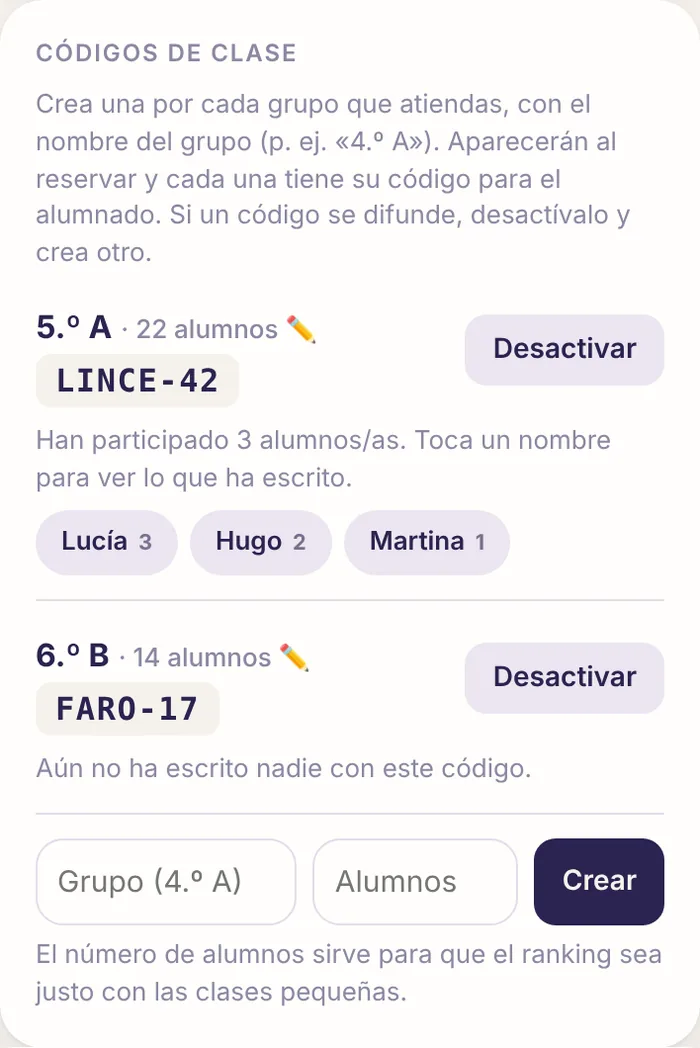
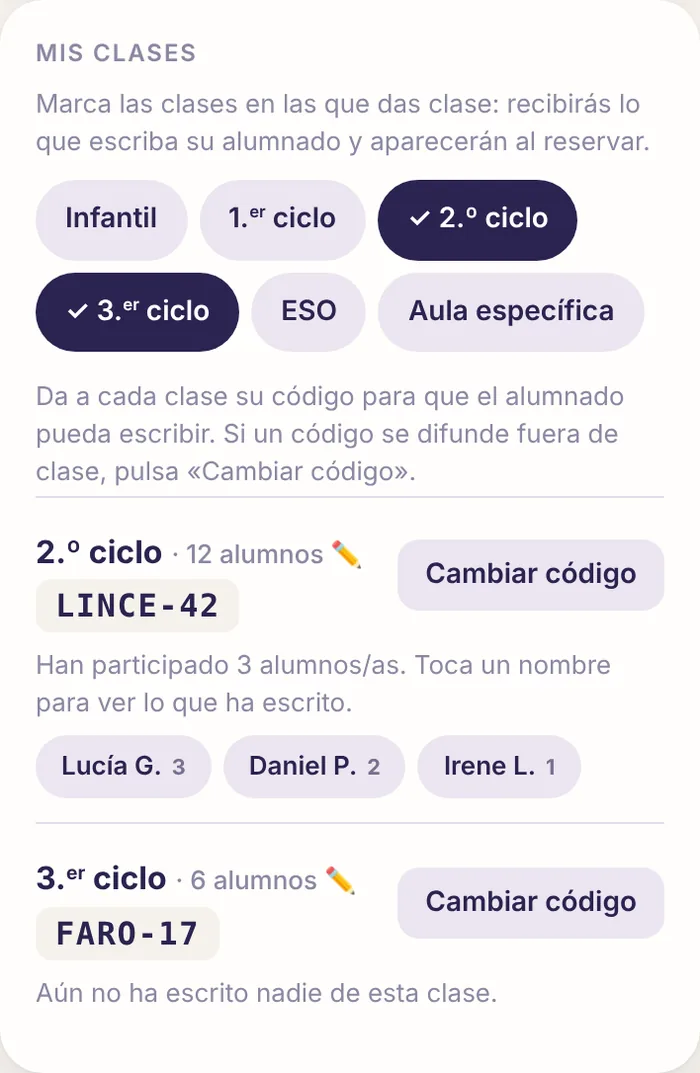
Clases fijas del centro a elegir por cada maestro, ordinales con superíndice y datos de ejemplo para presentaciones
Claude-Session: https://claude.ai/code/session_01LUWp7JZmstWodScyruJUGT

diff --git a/index.html b/index.html
@@ -141,6 +141,7 @@ textarea{min-height:120px;resize:vertical}
 .clase-off b,.clase-off .codigo,.clase-off .part,.clase-off .num-al{opacity:.45}
 .clase-off .codigo{text-decoration:line-through}
 .num-al{font-size:13px;font-weight:500}
+.selector .chip{padding:9px 14px;font-size:14px}
 .chips{display:flex;flex-wrap:wrap;gap:6px;margin-top:10px}
 .chip{padding:6px 12px;border-radius:999px;background:var(--papel2);color:var(--tinta);font-size:13px;font-weight:600;border:1.5px solid transparent}
 .chip.on{background:var(--tinta);color:#fff}
@@ -224,6 +225,8 @@ textarea{min-height:120px;resize:vertical}
 .franja-demo button{background:var(--tinta);color:#fff;font-weight:700;font-size:13px;padding:7px 14px;border-radius:10px}
 .tag-demo{background:var(--oro);color:var(--tinta);font-weight:700;padding:1px 7px;border-radius:6px}
 .demo-card{border:1.5px dashed var(--oro)}
+.ejemplo-card{border:1.5px dashed var(--cielo)}
+sup{font-size:.6em;line-height:0;vertical-align:.6em;margin-left:.02em}
 .cargando{text-align:center;color:var(--suave);padding:60px 0}
 </style>
 </head>
@@ -245,7 +248,7 @@ textarea{min-height:120px;resize:vertical}
 /* ============ CONFIGURACIÓN ============ */
 const API = 'https://script.google.com/macros/s/AKfycbz81OyJGv_nYIVvf2obFFmcTHuE472UoAX05WH8zrBownnmmddSbHULyt2vV2fO0F4u/exec';
 const NOMBRE_CENTRO = 'CEIP Fernando IV';
-const VERSION_APP = '1.19';
+const VERSION_APP = '1.20';
 
 const MESES = ['enero','febrero','marzo','abril','mayo','junio','julio','agosto','septiembre','octubre','noviembre','diciembre'];
 const DIAS = ['domingo','lunes','martes','miércoles','jueves','viernes','sábado'];
@@ -264,6 +267,7 @@ const S = {
   cargandoMes: {},   // calendario.json (festivos y efemérides)
   sesion: leer('bib_sesion'),
   demo: !!leer('bib_demo'),
+  ejemplo: !!leer('bib_ejemplo'),
   demoMsgs: leer('bib_demoMsgs') || [],   // maestro: {token, maestro:{id,nombre,rol}}
   alumno: leer('bib_alumno')    // alumno: {codigoClase, alias}
 };
@@ -292,6 +296,8 @@ const diaSem = f => dUTC(f).getUTCDay();
 const fechaLarga = f => { const d = dUTC(f); return `${DIAS[d.getUTCDay()]} ${d.getUTCDate()} de ${MESES[d.getUTCMonth()]}`; };
 const fechaCorta = s => { if (!s) return ''; const [f] = s.split(' '); const d = dUTC(f); return `${d.getUTCDate()} ${MESES[d.getUTCMonth()].slice(0,3)}`; };
 const mayus = t => t.charAt(0).toUpperCase() + t.slice(1);
+/** Nombre de clase con «er» volado: 1.er ciclo → 1.<sup>er</sup> ciclo */
+const cl = t => esc(t).replace(/(\d)\.er\b/g, '$1.<sup>er</sup>');
 const estrellas = n => '★'.repeat(n) + '☆'.repeat(5 - n);
 const iniciales = n => n.split(' ').filter(Boolean).slice(0,2).map(p => p[0].toUpperCase()).join('');
 const esMaestro = () => !!(S.sesion && S.sesion.token) && !S.demo;
@@ -302,10 +308,59 @@ const alumno = () => S.demo ? ALUMNO_DEMO : S.alumno;
 /** Lo publicado en el servidor + los ejemplos publicados en la demostración (solo en este dispositivo). */
 function pub(){
   const base = S.publicas || { sugerencias: [], resenas: [], clases: [] };
-  const demo = S.demoMsgs.filter(x => x.estado === 'aprobada');
-  return { clases: base.clases || [],
-    sugerencias: demo.filter(x => x._t === 'sugerencia').concat(base.sugerencias),
-    resenas: demo.filter(x => x._t === 'resena').concat(base.resenas) };
+  const demo = S.demoMsgs.filter(x => x.estado === 'aprobada').concat(conEjemplo() ? datosEjemplo() : []);
+  const clases = (base.clases || []).slice();
+  if (conEjemplo()) CLASES_EJEMPLO.forEach(([nombre, alumnos]) => { if (!clases.some(c => c.nombre === nombre)) clases.push({ nombre, alumnos }); });
+  return { clases,
+    sugerencias: demo.filter(x => x._t === 'sugerencia').concat(base.sugerencias).sort((a, b) => a.creada < b.creada ? 1 : -1),
+    resenas: demo.filter(x => x._t === 'resena').concat(base.resenas).sort((a, b) => a.creada < b.creada ? 1 : -1) };
+}
+
+/* ---- Datos de ejemplo para presentaciones: solo en el dispositivo del administrador, nunca en el servidor ---- */
+const conEjemplo = () => S.ejemplo && !!(S.sesion && S.sesion.maestro && S.sesion.maestro.rol === 'admin');
+const CLASES_EJEMPLO = [['Infantil', 15], ['1.er ciclo', 6], ['2.º ciclo', 12], ['3.er ciclo', 6], ['ESO', 9], ['Aula específica', 5]];
+function datosEjemplo(){
+  if (!S.estado) return [];
+  const hoy = S.estado.ahora.fecha, mes = hoy.slice(0, 7), dHoy = +hoy.slice(8, 10);
+  const f = (d, h) => `${mes}-${String(Math.max(1, Math.min(d, dHoy))).padStart(2, '0')} ${h}`;
+  const R = (id, d, alias, clase, libro, autor, v, texto) => ({ _t: 'resena', id: 'EJ' + id, ejemplo: true, tipoAutor: 'alumno', estado: 'aprobada', creada: f(d, '10:15'), alias, clase, libro, autorLibro: autor, valoracion: v, texto });
+  const G = (id, d, alias, clase, titulo, texto) => ({ _t: 'sugerencia', id: 'EJ' + id, ejemplo: true, tipoAutor: 'alumno', estado: 'aprobada', creada: f(d, '12:30'), alias, clase, titulo, texto });
+  return [
+    R(1, 2, 'Lola', 'Infantil', 'El monstruo de colores', 'Anna Llenas', 5, 'Me gusta el monstruo cuando está contento y es amarillo.'),
+    G(2, 6, 'Mateo', 'Infantil', 'Más cuentos con pegatinas', 'Nos gustan los libros con pegatinas y solapas.'),
+    R(3, 9, 'Vega', 'Infantil', 'Elmer', 'David McKee', 5, 'Elmer es de muchos colores y es muy gracioso.'),
+    R(4, 1, 'Hugo R.', '1.er ciclo', 'El principito', 'Antoine de Saint-Exupéry', 5, 'Me ha gustado mucho el zorro y la rosa. Es un libro muy bonito.'),
+    R(5, 3, 'Alba M.', '1.er ciclo', 'Kika Superbruja', 'Knister', 4, 'Kika hace hechizos divertidos. Quiero leer el siguiente.'),
+    G(6, 5, 'Hugo R.', '1.er ciclo', 'Una alfombra para leer', 'Podríamos tener una alfombra con cojines para leer en el suelo.'),
+    R(7, 8, 'Pablo S.', '1.er ciclo', 'Fray Perico y su borrico', 'Juan Muñoz Martín', 4, 'El borrico es muy cabezota y me reí mucho.'),
+    R(8, 11, 'Alba M.', '1.er ciclo', 'El principito', 'Antoine de Saint-Exupéry', 4, 'Al principio no lo entendía, pero luego me gustó.'),
+    R(9, 1, 'Lucía G.', '2.º ciclo', 'Matilda', 'Roald Dahl', 5, 'Matilda es muy lista y valiente. La directora da miedo pero al final todo sale bien.'),
+    R(10, 2, 'Daniel P.', '2.º ciclo', 'Manolito Gafotas', 'Elvira Lindo', 4, 'Manolito cuenta cosas de su barrio y de su abuelo. Es muy divertido.'),
+    G(11, 4, 'Lucía G.', '2.º ciclo', 'Club de lectura', 'Podríamos quedar un día a la semana para hablar de los libros que leemos.'),
+    R(12, 6, 'Irene L.', '2.º ciclo', 'El principito', 'Antoine de Saint-Exupéry', 5, 'Es un libro corto pero te hace pensar mucho. Lo recomiendo.'),
+    R(13, 7, 'Marcos V.', '2.º ciclo', 'Las brujas', 'Roald Dahl', 4, 'Da un poco de miedo pero engancha. El final es muy original.'),
+    G(14, 9, 'Daniel P.', '2.º ciclo', 'Libros de dinosaurios', 'Me gustaría que hubiera más libros de dinosaurios y de fósiles.'),
+    R(15, 10, 'Irene L.', '2.º ciclo', 'Matilda', 'Roald Dahl', 5, 'Ya lo he leído dos veces. Me encanta cuando mueve las cosas con la mente.'),
+    R(16, 12, 'Marcos V.', '2.º ciclo', 'Diario de Greg', 'Jeff Kinney', 4, 'Tiene muchos dibujos y se lee muy rápido.'),
+    R(17, 1, 'Sara T.', '3.er ciclo', 'Wonder', 'R. J. Palacio', 5, 'Auggie es muy valiente. Este libro enseña a tratar bien a todo el mundo.'),
+    R(18, 3, 'Iván C.', '3.er ciclo', 'Harry Potter y la piedra filosofal', 'J. K. Rowling', 5, 'Me lo he leído en una semana. Hogwarts es increíble.'),
+    G(19, 4, 'Sara T.', '3.er ciclo', 'Más libros de misterio', 'Nos gustan mucho los libros de detectives y de misterio.'),
+    R(20, 6, 'Noa B.', '3.er ciclo', 'El principito', 'Antoine de Saint-Exupéry', 5, 'Lo leímos en clase y nos hizo pensar sobre la amistad.'),
+    R(21, 8, 'Iván C.', '3.er ciclo', 'Wonder', 'R. J. Palacio', 4, 'Me gustó que cada parte la cuente un personaje distinto.'),
+    G(22, 11, 'Noa B.', '3.er ciclo', 'Concurso de marcapáginas', 'Podríamos hacer un concurso de marcapáginas para la biblioteca.'),
+    R(23, 2, 'Javier M.', 'ESO', 'El curioso incidente del perro a medianoche', 'Mark Haddon', 4, 'Está contado por un chico que ve el mundo de forma diferente. Muy interesante.'),
+    R(24, 5, 'Carla R.', 'ESO', 'Los juegos del hambre', 'Suzanne Collins', 5, 'No podía parar de leer. Katniss es una gran protagonista.'),
+    G(25, 7, 'Javier M.', 'ESO', 'Sección de cómic y manga', 'Estaría bien tener una estantería solo de cómic y manga.'),
+    R(26, 9, 'Lucas F.', 'ESO', 'La sombra del viento', 'Carlos Ruiz Zafón', 4, 'Es largo pero merece la pena. Barcelona parece un personaje más.'),
+    R(27, 12, 'Carla R.', 'ESO', 'El principito', 'Antoine de Saint-Exupéry', 4, 'Lo leí de pequeña y ahora lo he entendido mucho mejor.'),
+    R(28, 3, 'Rocío', 'Aula específica', 'Pictocuentos: Caperucita Roja', 'Adaptación con pictogramas', 5, 'Me gustan los dibujos y el lobo.'),
+    G(29, 6, 'Adrián', 'Aula específica', 'Libros con sonidos', 'Queremos libros que hagan sonidos al tocarlos.'),
+    R(30, 10, 'Rocío', 'Aula específica', 'Elmer', 'David McKee', 5, 'Elmer es mi favorito.')
+  ];
+}
+function alternarEjemplo(){
+  S.ejemplo = !S.ejemplo; guardar('bib_ejemplo', S.ejemplo || null); pintar();
+  aviso(S.ejemplo ? 'Datos de ejemplo activados en este dispositivo' : 'Datos de ejemplo desactivados');
 }
 const esAdmin = () => esMaestro() && S.sesion.maestro.rol === 'admin';
 function sumarDias(f, n){ const d = dUTC(f); d.setUTCDate(d.getUTCDate() + n); return d.toISOString().slice(0,10); }
@@ -484,7 +539,7 @@ function vInicio(){
   <button class="card hero" style="width:100%;text-align:left" onclick="irHoy()">
         <div class="etq">La biblioteca ahora</div>
     <div class="estado">${sit.estado}</div>
-    <div class="det">${esc(sit.det)}</div>
+    <div class="det">${cl(sit.det)}</div>
     ${pills ? `<div class="tramos-hoy">${pills}</div>` : ''}
     ${proximos().length ? `<div class="proximos">${proximos().map(e => `<div class="prox"><span>${e.icono}</span><span><b>${cuandoEs(e.fecha)}</b> · ${esc(e.texto)}</span></div>`).join('')}</div>` : ''}
     <div class="fila" style="margin-top:16px"><span class="pill neutra">Ver calendario completo</span><span class="ir" style="color:#C9C2E0">›</span></div>
@@ -567,12 +622,12 @@ function tarjetaLibro(libro){
   return `<div class="card destacado">
     <div class="fila"><div class="etq">⭐ ${libro ? libro.titulo : 'Libro del mes'}</div>${libro ? `<span class="ayuda">${libro.n === 1 ? '1 reseña' : libro.n + ' reseñas'}</span>` : ''}</div>
     ${libro ? `<div class="libro">
-        <div class="portada"><span>${esc(libro.libro.slice(0, 1).toUpperCase())}</span></div>
+        <div class="portada"><span>${esc(libro.libro.replace(/^(el|la|los|las|un|una|unos|unas)\s+/i, '').slice(0, 1).toUpperCase())}</span></div>
         <div style="min-width:0"><h3>${esc(libro.libro)}</h3>
           ${libro.autor && libro.autor !== '-' ? `<p class="autor">${esc(libro.autor)}</p>` : ''}
           <div class="estrellas" style="font-size:18px">${estrellas(Math.round(libro.suma / libro.n))} <small class="ayuda">${(libro.suma / libro.n).toFixed(1).replace('.', ',')}</small></div></div>
       </div>
-      <p class="cita">«${esc(libro.mejor.texto.length > 140 ? libro.mejor.texto.slice(0, 137) + '…' : libro.mejor.texto)}»<span>— ${esc(libro.mejor.alias)}, ${esc(libro.mejor.clase)}</span></p>`
+      <p class="cita">«${esc(libro.mejor.texto.length > 140 ? libro.mejor.texto.slice(0, 137) + '…' : libro.mejor.texto)}»<span>— ${esc(libro.mejor.alias)}, ${cl(libro.mejor.clase)}</span></p>`
     : '<p class="ayuda" style="margin-top:8px">Aún no hay reseñas. ¡Escribe la primera!</p>'}
   </div>`;
 }
@@ -582,7 +637,7 @@ function tarjetaRanking(rk, mesNombre, profesorado){
     <div class="fila"><div class="etq">🏆 Clases más lectoras · ${mesNombre}</div></div>
     ${rk.length ? `<div class="ranking">${rk.map((r, i) => `<div class="rk ${i < 3 ? 'top' : ''}">
         <span class="med">${medallas[i] || (i + 1) + '.º'}</span>
-        <span class="nom"><b>${esc(r.nombre)}</b><small>${r.n === 1 ? '1 publicación' : r.n + ' publicaciones'} · ${r.alumnos} alumnos</small></span>
+        <span class="nom"><b>${cl(r.nombre)}</b><small>${r.n === 1 ? '1 publicación' : r.n + ' publicaciones'} · ${r.alumnos} alumnos</small></span>
         <span class="pts">${r.media.toFixed(2).replace('.', ',')}<small>por alumno</small></span></div>`).join('')}</div>
       <p class="ayuda" style="margin-top:10px">Gana la clase con más reseñas y sugerencias publicadas por alumno este mes, así las clases pequeñas compiten igual.${profesorado ? ' El alumnado ve los 5 primeros. Las clases sin número de alumnos no aparecen.' : ''}</p>`
     : `<p class="ayuda" style="margin-top:8px">Este mes aún no hay clases en el ranking. Cuentan las reseñas y sugerencias publicadas de cada clase.</p>`}
@@ -704,7 +759,7 @@ function abrirDia(f){
       const puede = esMaestro() && !pasado && (r.maestroId === S.sesion.maestro.id || esAdmin());
       if (puede) accion = `<button class="btn-peq peligro" onclick="anular('${r.id}','${f}')">Anular</button>`;
       return `<div class="tramo-fila"><div class="hora">${t.inicio}<small>${t.fin}</small></div>
-        <div class="info"><b>${esc(r.maestro)}</b><span>${esc(r.grupo)}</span></div>${accion}</div>`;
+        <div class="info"><b>${esc(r.maestro)}</b><span>${cl(r.grupo)}</span></div>${accion}</div>`;
     }
     if (esMaestro() && !pasado && f <= limite)
       accion = `<button class="btn-peq" onclick="mostrarReserva(${t.n})">Reservar</button>`;
@@ -723,17 +778,17 @@ function abrirDia(f){
 
 function mostrarReserva(n){
   $('#rf' + n).style.display = 'flex'; $('#rb' + n).style.display = 'none';
-  const mias = (S.clases || []).filter(c => c.activa === 'sí').map(c => c.nombre);
+  const mias = (S.clases || []).filter(c => c.mia).map(c => c.nombre);
   if (mias.length) {
     const ch = $('#ch' + n); ch.style.display = 'flex';
-    ch.innerHTML = mias.map(c => `<button class="chip" onclick="elegirClase(${n},this)">${esc(c)}</button>`).join('');
+    ch.innerHTML = mias.map(c => `<button class="chip" data-v="${esc(c)}" onclick="elegirClase(${n},this)">${cl(c)}</button>`).join('');
   } else {
     const ult = leer('bib_ultimoGrupo'); if (ult) $('#gr' + n).value = ult;
   }
   $('#gr' + n).focus();
 }
 function elegirClase(n, b){
-  $('#gr' + n).value = b.textContent;
+  $('#gr' + n).value = b.dataset.v;
   document.querySelectorAll('#ch' + n + ' .chip').forEach(x => x.classList.toggle('on', x === b));
 }
 
@@ -779,7 +834,7 @@ function vBuzon(){
   else html += lista.map((x, i) => `<button class="card item" onclick="verMensaje('${tab}',${i})">
       ${tab === 'resenas' ? `<div class="estrellas">${estrellas(x.valoracion)}</div><h3>${esc(x.libro)}</h3>${x.autorLibro && x.autorLibro !== '-' ? `<p style="margin-bottom:6px;font-style:italic">${esc(x.autorLibro)}</p>` : ''}` : `<h3>${esc(x.titulo)}</h3>`}
       <p>${esc(x.texto)}</p>
-      <div class="meta">${esc(x.alias)}${x.clase ? ' · ' + esc(x.clase) : ''}${x.tipoAutor === 'maestro' ? ' · profesorado' : ''} · ${fechaCorta(x.creada)}</div>
+      <div class="meta">${esc(x.alias)}${x.clase ? ' · ' + cl(x.clase) : ''}${x.tipoAutor === 'maestro' ? ' · profesorado' : ''} · ${fechaCorta(x.creada)}</div>
     </button>`).join('');
   return html + `<button class="fab">＋ Escribir</button>`;
 }
@@ -787,13 +842,13 @@ function vBuzon(){
 function verMensaje(tab, i){
   const x = pub()[tab][i];
   const tipo = tab === 'resenas' ? 'resena' : 'sugerencia';
-  const retirarBtn = esMaestro() && !x.demo ? `<button class="btn peligro" onclick="retirarPublicacion('${tipo}','${x.id}')">Retirar publicación</button>
+  const retirarBtn = esMaestro() && !x.demo && !x.ejemplo ? `<button class="btn peligro" onclick="retirarPublicacion('${tipo}','${x.id}')">Retirar publicación</button>
     <p class="ayuda" style="text-align:center;margin-top:6px">Deja de verse y de contar en el libro del mes y el ranking.</p>` : '';
   abrirHoja(tab === 'resenas'
     ? `<div class="estrellas" style="font-size:22px">${estrellas(x.valoracion)}</div><h2>${esc(x.libro)}</h2>
        ${x.autorLibro && x.autorLibro !== '-' ? `<p style="font-style:italic;color:var(--tinta2)">${esc(x.autorLibro)}</p>` : ''}<div class="linea"></div>
-       <p style="white-space:pre-wrap">${esc(x.texto)}</p><div class="meta">${esc(x.alias)}${x.clase ? ' · ' + esc(x.clase) : ''} · ${fechaCorta(x.creada)}</div>${retirarBtn}`
-    : `<h2>${esc(x.titulo)}</h2><div class="meta" style="margin-top:2px">${esc(x.alias)}${x.clase ? ' · ' + esc(x.clase) : ''} · ${fechaCorta(x.creada)}</div>
+       <p style="white-space:pre-wrap">${esc(x.texto)}</p><div class="meta">${esc(x.alias)}${x.clase ? ' · ' + cl(x.clase) : ''} · ${fechaCorta(x.creada)}</div>${retirarBtn}`
+    : `<h2>${esc(x.titulo)}</h2><div class="meta" style="margin-top:2px">${esc(x.alias)}${x.clase ? ' · ' + cl(x.clase) : ''} · ${fechaCorta(x.creada)}</div>
        <div class="linea"></div><p style="white-space:pre-wrap">${esc(x.texto)}</p>${retirarBtn}`);
 }
 
@@ -847,6 +902,9 @@ function vPerfilBase(){
   html += '';
   if (esMaestro()) return html + `<button class="card guia-acceso" onclick="ir('guia')"><span class="icono">📘</span>
       <span style="flex:1;text-align:left"><b>Guía para el profesorado</b><span class="ayuda" style="display:block;margin-top:2px">Cómo reservar, crear códigos de clase y revisar comentarios</span></span><span class="ir">›</span></button>`
+    + (esAdmin() ? `<div class="card ejemplo-card"><div class="fila" style="justify-content:flex-start;gap:14px"><span class="icono">🧪</span>
+        <div><b>Datos de ejemplo para presentaciones</b><p class="ayuda" style="margin-top:2px">Rellena el ranking, el libro del mes y el buzón con 30 reseñas y sugerencias inventadas. <b>Solo se ven en este dispositivo</b> y no se guardan en el servidor.</p></div></div>
+        <button class="btn ${S.ejemplo ? 'peligro' : ''}" onclick="alternarEjemplo()">${S.ejemplo ? 'Desactivar datos de ejemplo' : 'Activar datos de ejemplo'}</button></div>` : '')
     + `<div class="card demo-card"><div class="fila" style="justify-content:flex-start;gap:14px"><span class="icono">🎒</span>
         <div><b>Ver la app como alumno</b><p class="ayuda" style="margin-top:2px">Para explicarla en clase o en el claustro. Lo que escribas como ejemplo no se envía: lo revisas tú mismo aquí y solo se ve en este dispositivo.</p></div></div>
         <div class="grid2" style="margin-top:14px"><button class="btn" style="margin:0" onclick="entrarDemo()">Empezar demostración</button>
@@ -921,20 +979,16 @@ function perfilMaestro(){
       ${pend.length ? pend.map(x => `<div style="padding:12px 0;border-bottom:1px solid var(--linea)">
           <b>${esc(x._t === 'resena' ? '📖 ' + x.libro : '💡 ' + x.titulo)}</b>${x._t === 'resena' ? ` <span class="estrellas">${estrellas(+x.valoracion)}</span>` : ''}
           <p style="font-size:14px;color:var(--tinta2);margin-top:4px;white-space:pre-wrap">${esc(x.texto)}</p>
-          <div class="meta" style="margin-top:4px">${esc(x.alias)} · ${esc(x.clase)} · ${fechaCorta(x.creada)}${x.demo ? ' · <span class="tag-demo">ejemplo</span>' : p.todas && !x.mia ? ' · <b>de otra clase</b>' : ''}</div>
+          <div class="meta" style="margin-top:4px">${esc(x.alias)} · ${cl(x.clase)} · ${fechaCorta(x.creada)}${x.demo ? ' · <span class="tag-demo">ejemplo</span>' : p.todas && !x.mia ? ' · <b>de otra clase</b>' : ''}</div>
           <div style="display:flex;gap:8px;margin-top:10px">
             <button class="btn-peq" onclick="moderar('${x._t}','${x.id}','aprobada')">Publicar</button>
             <button class="btn-peq peligro" onclick="moderar('${x._t}','${x.id}','rechazada')">Descartar</button></div></div>`).join('')
         : '<p class="ayuda">No hay nada pendiente.</p>'}
     </div>
 
-    <div class="card"><div class="etq">Códigos de clase</div>
-      <p class="ayuda">Crea una por cada grupo que atiendas, con el nombre del grupo (p. ej. «4.º A»). Aparecerán al reservar y cada una tiene su código para el alumnado. Si un código se difunde, desactívalo y crea otro.</p>
+    <div class="card"><div class="etq">Mis clases</div>
+      <p class="ayuda">Marca las clases en las que das clase: recibirás lo que escriba su alumnado y aparecerán al reservar.</p>
       <div id="clases">${pintarClases()}</div>
-      <div class="crear-clase"><input id="nClase" maxlength="30" placeholder="Grupo (4.º A)">
-      <input id="nAlumnos" type="number" inputmode="numeric" min="1" max="60" placeholder="Alumnos">
-      <button class="btn-peq" onclick="crearClase()">Crear</button></div>
-      <p class="ayuda" style="margin-top:6px">El número de alumnos sirve para que el ranking sea justo con las clases pequeñas.</p>
     </div>
 
     ${m.rol === 'admin' ? `<div class="card"><div class="etq">Administración</div><div id="admin">${pintarAdmin()}</div></div>` : ''}
@@ -945,12 +999,12 @@ function perfilMaestro(){
 
 /** Lo que ha escrito un alumno con un código de clase. */
 function verAlumno(codigo, i){
-  const c = (S.clases || []).find(x => x.codigo === codigo); if (!c) return;
+  const c = (S.clases || []).concat(S.clasesAntiguas || []).find(x => x.codigo === codigo || x.nombre === codigo); if (!c) return;
   const a = c.participantes[i];
   const est = { aprobada: ['Publicado', 'libre'], pendiente: ['Pendiente', 'neutra-c'], rechazada: ['Descartado', 'ocupada'] };
   const items = a.mensajes || [];
   abrirHoja(`<h2>${esc(a.alias)}</h2>
-    <p class="ayuda">${esc(c.nombre)} · ${a.envios === 1 ? '1 mensaje' : a.envios + ' mensajes'} · último el ${fechaCorta(a.ultimo)}</p>
+    <p class="ayuda">${cl(c.nombre)} · ${a.envios === 1 ? '1 mensaje' : a.envios + ' mensajes'} · último el ${fechaCorta(a.ultimo)}</p>
     ${items.length ? items.map(m => `<div style="padding:14px 0;border-bottom:1px solid var(--linea)">
         <div class="fila"><b>${m.tipo === 'resena' ? '📖 ' + esc(m.libro) : '💡 ' + esc(m.titulo)}</b>
           <span class="pill ${(est[m.estado] || est.pendiente)[1]}" style="flex-shrink:0">${(est[m.estado] || est.pendiente)[0]}</span></div>
@@ -997,8 +1051,8 @@ function vGuia(){
       <p>Si otra persona la reserva un instante antes, la app te avisa: <b>nunca habrá dos reservas a la misma hora</b>.</p>`, 'reservar')}
     ${paso(5, 'Anular una reserva', `<p>Abre el día y pulsa <b>Anular</b> en tu reserva. Para evitar errores, hay que <b>tocarlo dos veces</b>: la app te lo indica.</p>
       <p>Solo puedes anular <b>tus</b> reservas. Si necesitas una hora reservada por otra persona, habla con ella.</p>`, 'anular')}
-    ${paso(6, 'Crear los códigos de tus clases', `<p>En <b>Perfil → Códigos de clase</b>, escribe el <b>nombre del grupo</b> (p. ej. «4.º A»), <b>cuántos alumnos tiene</b> y pulsa <b>Crear</b>. Crea uno por cada grupo que atiendas.</p>
-      <ul><li>Da el código a tu alumnado <b>en clase</b> (en la pizarra, por ejemplo).</li><li>Cada niño entra en <b>Perfil → Alumno/a</b> con ese código y su nombre e inicial, <b>sin apellidos</b> (p. ej. «Lucía M.»).</li><li>Debajo de cada código verás <b>qué alumnos han participado</b> y cuántos mensajes ha enviado cada uno. <b>Toca un nombre</b> para leer lo que ha escrito.</li><li>El número de alumnos se puede corregir tocando <b>«✏»</b>. Es importante que sea correcto: el ranking lo usa para comparar clases.</li><li>Si el código se difunde fuera de clase, pulsa <b>Desactivar</b> y crea otro.</li><li>Un código desactivado se puede <b>Eliminar</b>: se borra junto con todo lo que se escribió con él (útil para clases de prueba).</li></ul>`, 'clases')}
+    ${paso(6, 'Elegir tus clases y dar el código', `<p>En <b>Perfil → Mis clases</b>, toca las clases en las que das clase (Infantil, 1.<sup>er</sup> ciclo, 2.º ciclo, 3.<sup>er</sup> ciclo, ESO, Aula específica). Quedan marcadas con ✓.</p>
+      <ul><li>Aparecerán como botones al <b>reservar</b> y recibirás para revisar lo que escriba su alumnado.</li><li>Cada clase tiene <b>un código</b> para todo su alumnado. Dalo <b>en clase</b> (en la pizarra, por ejemplo).</li><li>Cada niño entra en <b>Perfil → Alumno/a</b> con ese código y su nombre e inicial, <b>sin apellidos</b> (p. ej. «Lucía M.»).</li><li>Debajo de cada clase verás <b>qué alumnos han participado</b>. <b>Toca un nombre</b> para leer lo que ha escrito.</li><li>El número de alumnos se corrige tocando <b>«✏»</b>; el ranking lo usa para comparar clases.</li><li>Si el código se difunde fuera de clase, pulsa <b>Cambiar código</b>: el anterior deja de funcionar.</li></ul>`, 'clases')}
     ${paso(7, 'Revisar comentarios del alumnado', `<p>Lo que escribe el alumnado <b>no se publica hasta que lo revisas</b>. Cuando haya algo pendiente de tus clases, verás un aviso magenta arriba del todo en <b>Inicio</b>.</p>
       <p>Púlsalo y elige <b>Publicar</b> o <b>Descartar</b>. Solo ves lo que llega con los códigos de tus clases.</p>
       <p>Si algo ya publicado no debería estar, ábrelo en el <b>Buzón</b> y pulsa <b>Retirar publicación</b>.</p>`, 'revisar')}
@@ -1073,23 +1127,44 @@ async function cambiarClave(){
 
 function pintarClases(){
   if (!S.clases) return '<p class="ayuda">Cargando…</p>';
-  if (!S.clases.length) return '<p class="ayuda">Aún no has creado ninguna.</p>';
-  return S.clases.map(c => {
-    const part = c.participantes;
-    const lista = !part ? '' : part.length
+  if (S.clases.length && S.clases[0].mia === undefined) return '<p class="ayuda">Falta actualizar el servidor en Google Apps Script.</p>';
+  const selector = `<div class="chips selector">${S.clases.map(c => `<button class="chip${c.mia ? ' on' : ''}" onclick="alternarClase('${esc(c.nombre)}')">${c.mia ? '✓ ' : ''}${cl(c.nombre)}</button>`).join('')}</div>`;
+  const visibles = S.clases.filter(c => c.mia || esAdmin());
+  const fila = c => {
+    const part = c.participantes || [];
+    const lista = part.length
       ? `<div class="part"><div class="ayuda">${part.length === 1 ? 'Ha participado 1 alumno/a' : `Han participado ${part.length} alumnos/as`}. Toca un nombre para ver lo que ha escrito.</div>
-          <div class="chips">${part.map((a, i) => `<button class="chip" onclick="verAlumno('${c.codigo}',${i})">${esc(a.alias)} <small>${a.envios}</small></button>`).join('')}</div></div>`
-      : '<div class="part ayuda">Aún no ha escrito nadie con este código.</div>';
-    return `<div class="${c.activa === 'sí' ? '' : 'clase-off'}" style="padding:12px 0;border-bottom:1px solid var(--linea)">
-      <div class="fila"><div><b>${esc(c.nombre)}</b>${c.alumnos ? ` <button class="ayuda num-al" onclick="formAlumnos('${c.codigo}')">· ${c.alumnos} alumnos ✏</button>` : ''}${esAdmin() && c.mia === false ? ' <span class="ayuda">(de otro maestro)</span>' : ''}<div style="margin-top:4px"><span class="codigo">${esc(c.codigo)}</span></div></div>
-      ${c.activa === 'sí' ? `<button class="btn-peq sec" onclick="desactivarClase('${c.codigo}')">Desactivar</button>` : `<button class="btn-peq peligro" style="opacity:1" onclick="eliminarClase('${c.codigo}')">Eliminar</button>`}</div>
-      ${!c.alumnos && c.activa === 'sí' ? `<div class="aviso-num"><span>Indica cuántos alumnos tiene este grupo para el ranking.</span><button class="btn-peq" onclick="formAlumnos('${c.codigo}')">Indicar</button></div>` : ''}
+          <div class="chips">${part.map((a, i) => `<button class="chip" onclick="verAlumno('${esc(c.codigo || c.nombre)}',${i})">${esc(a.alias)} <small>${a.envios}</small></button>`).join('')}</div></div>`
+      : '<div class="part ayuda">Aún no ha escrito nadie de esta clase.</div>';
+    return `<div style="padding:12px 0;border-top:1px solid var(--linea)">
+      <div class="fila"><div><b>${cl(c.nombre)}</b> <button class="ayuda num-al" onclick="formAlumnos('${esc(c.codigo)}')">· ${c.alumnos || '¿?'} alumnos ✏</button>${!c.mia ? ' <span class="ayuda">(no la impartes)</span>' : ''}
+        <div style="margin-top:4px"><span class="codigo">${esc(c.codigo)}</span></div></div>
+        <button class="btn-peq sec" onclick="cambiarCodigoClase('${esc(c.nombre)}')">Cambiar código</button></div>
       ${lista}</div>`;
-  }).join('');
+  };
+  const antiguas = (S.clasesAntiguas || []);
+  return selector
+    + (visibles.length ? `<p class="ayuda" style="margin:14px 0 2px">Da a cada clase su código para que el alumnado pueda escribir. Si un código se difunde fuera de clase, pulsa «Cambiar código».</p>${visibles.map(fila).join('')}` : '<p class="ayuda" style="margin-top:12px">Aún no has marcado ninguna clase.</p>')
+    + (antiguas.length ? `<div class="linea"></div><p class="etq">Códigos antiguos</p><p class="ayuda" style="margin-top:4px">Ya no funcionan. Elimínalos para que sus mensajes de prueba no cuenten.</p>
+        ${antiguas.map(c => `<div class="fila clase-off" style="padding:10px 0;border-bottom:1px solid var(--linea)"><div><b>${cl(c.nombre)}</b><div style="margin-top:4px"><span class="codigo">${esc(c.codigo)}</span>
+          <span class="ayuda">${c.participantes.reduce((t, a) => t + a.envios, 0)} mensajes</span></div></div>
+          <button class="btn-peq peligro" style="opacity:1" onclick="eliminarClase('${esc(c.codigo)}')">Eliminar</button></div>`).join('')}` : '');
+}
+async function alternarClase(nombre){
+  const elegidas = S.clases.filter(c => c.nombre === nombre ? !c.mia : c.mia).map(c => c.nombre);
+  S.clases.forEach(c => { if (c.nombre === nombre) c.mia = !c.mia; });
+  const el = $('#clases'); if (el) el.innerHTML = pintarClases();
+  try { await api('misClases', { token: S.sesion.token, clases: elegidas }, true); await Promise.all([cargarClases(), cargarPendientes()]); pintar(); }
+  catch(e){ aviso(e.message, true); await cargarClases(); }
+}
+async function cambiarCodigoClase(nombre){
+  if (!confirmarDoble('cc' + nombre, 'Toca otra vez: el código actual dejará de funcionar')) return;
+  try { const j = await api('cambiarCodigoClase', { token: S.sesion.token, nombre }, true); aviso('Nuevo código: ' + j.codigo); await cargarClases(); }
+  catch(e){ aviso(e.message, true); }
 }
 function formAlumnos(codigo){
   const c = S.clases.find(x => x.codigo === codigo);
-  abrirHoja(`<h2>${esc(c.nombre)}</h2><p class="ayuda">¿Cuántos alumnos tiene este grupo? Sirve para que el ranking sea justo con las clases pequeñas.</p>
+  abrirHoja(`<h2>${cl(c.nombre)}</h2><p class="ayuda">¿Cuántos alumnos tiene esta clase? Sirve para que el ranking sea justo con las clases pequeñas.</p>
     <label>Número de alumnos</label><input id="fAl" type="number" inputmode="numeric" min="1" max="60" value="${c.alumnos || ''}">
     <button class="btn" onclick="guardarAlumnos('${codigo}', this)">Guardar</button>`);
   setTimeout(() => $('#fAl').focus(), 250);
@@ -1102,17 +1177,11 @@ async function guardarAlumnos(codigo, b){
 }
 async function cargarClases(){
   if (!esMaestro()) return;
-  try { S.clases = (await api('listarClases', { token: S.sesion.token })).clases; } catch(e){ S.clases = []; }
+  try { const j = await api('listarClases', { token: S.sesion.token }); S.clases = j.clases; S.clasesAntiguas = j.antiguas || []; } catch(e){ S.clases = []; }
   const el = $('#clases'); if (el) el.innerHTML = pintarClases();
 }
-async function crearClase(){
-  const nombre = $('#nClase').value.trim(); if (!nombre) { aviso('Escribe el nombre del grupo', true); return; }
-  const alumnos = +$('#nAlumnos').value; if (!(alumnos >= 1 && alumnos <= 60)) { aviso('Indica cuántos alumnos tiene el grupo', true); return; }
-  try { const j = await api('crearClase', { token: S.sesion.token, nombre, alumnos }, true); aviso('Código creado: ' + j.codigo); $('#nClase').value = ''; $('#nAlumnos').value = ''; await cargarClases(); }
-  catch(e){ aviso(e.message, true); }
-}
 async function eliminarClase(codigo){
-  const c = S.clases.find(x => x.codigo === codigo);
+  const c = (S.clasesAntiguas || []).find(x => x.codigo === codigo);
   const n = c && c.participantes ? c.participantes.reduce((t, a) => t + a.envios, 0) : 0;
   if (!confirmarDoble('el' + codigo, n ? `Toca otra vez: se borrará la clase y sus ${n} mensajes` : 'Toca otra vez para eliminar la clase')) return;
   try { const j = await api('eliminarClase', { token: S.sesion.token, codigo }, true);
@@ -1125,11 +1194,6 @@ async function retirarPublicacion(tipo, id){
   try { await api('retirar', { token: S.sesion.token, tipo, id }, true); cerrarHoja(); aviso('Publicación retirada');
     await cargarPublicas(); pintar(); }
   catch(e){ aviso(/desconocida/.test(e.message) ? 'Falta actualizar el servidor' : e.message, true); }
-}
-async function desactivarClase(codigo){
-  if (!confirmarDoble(codigo, 'Toca otra vez para desactivar el código')) return;
-  try { await api('desactivarClase', { token: S.sesion.token, codigo }, true); await cargarClases(); aviso('Código desactivado'); }
-  catch(e){ aviso(e.message, true); }
 }
 async function moderar(tipo, id, decision){
   if (String(id).startsWith('DEMO')) {

diff --git a/sw.js b/sw.js
@@ -1,5 +1,5 @@
 // Service worker de la Biblioteca. Sube VERSION en cada actualización.
-const VERSION = 'biblioteca-v19';
+const VERSION = 'biblioteca-v20';
 const BASICOS = ['./', './index.html', './manifest.webmanifest', './img/biblioteca.webp', './img/icono-192.png', './img/icono-512.png'];
 
 self.addEventListener('install', e => {
